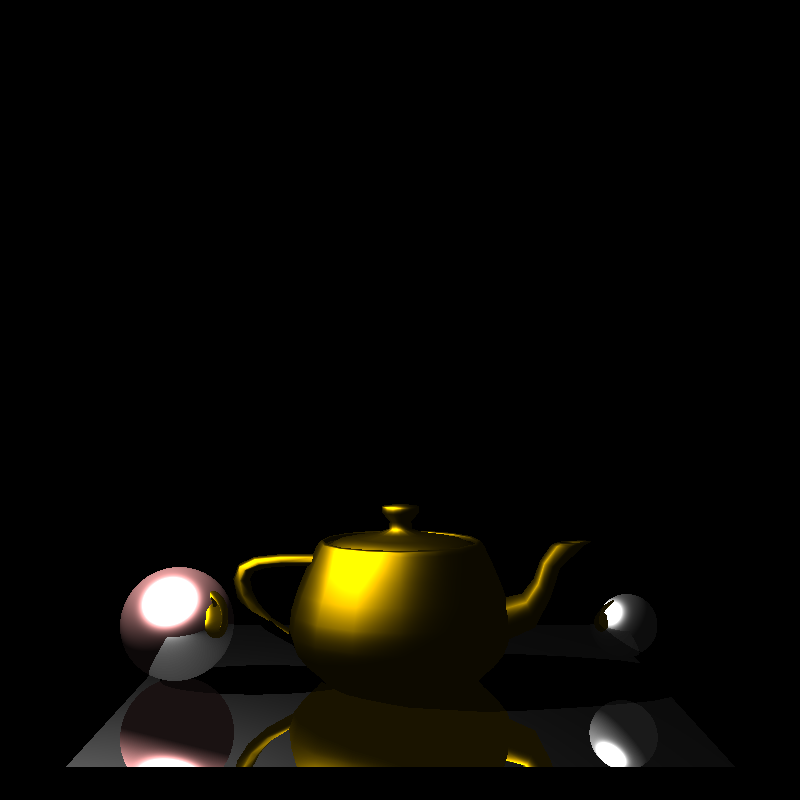
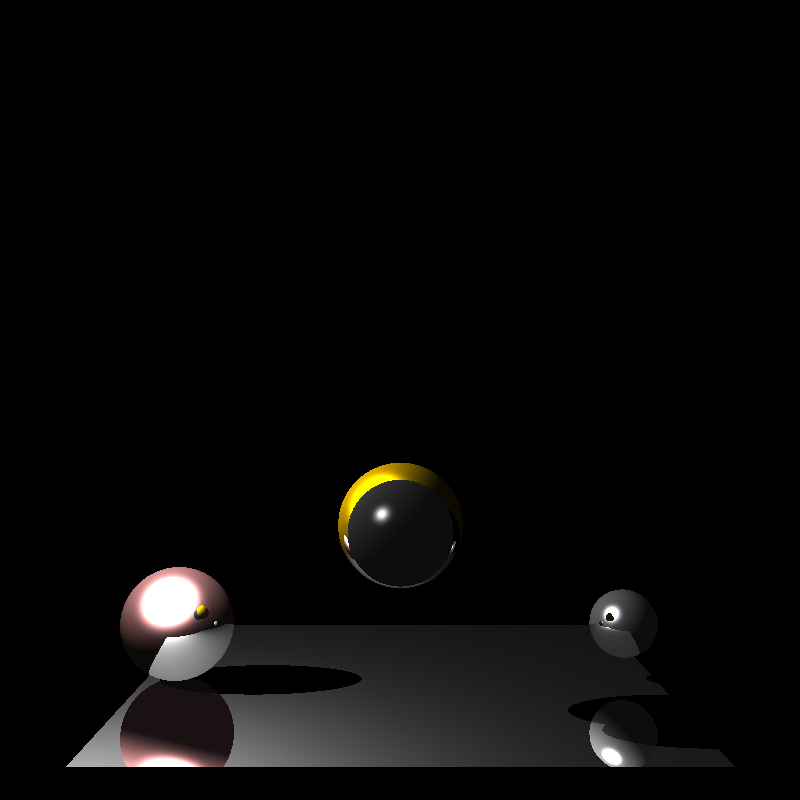
partial-refraction

Changed region(s): [[0.1562, 0.5625, 0.8125, 0.9688], [0.625, 0.6562, 0.7188, 0.7812], [0.0938, 0.875, 0.1562, 0.9688]]

diff --git a/src/edu/up/isgc/raytracer/Raytracer.java b/src/edu/up/isgc/raytracer/Raytracer.java
@@ -12,6 +12,7 @@ import javax.imageio.ImageIO;
 import edu.up.isgc.material.LambertMat;
 import edu.up.isgc.material.MaterialShader;
 import edu.up.isgc.material.ReflectiveMat;
+import edu.up.isgc.material.RefractiveMat;
 import edu.up.isgc.raytracer.lights.Light;
 import edu.up.isgc.raytracer.lights.PointLight;
 import edu.up.isgc.raytracer.objects.Camera;
@@ -27,41 +28,38 @@ public class Raytracer {
 
 	/**
 	 * Main Algorithm
+	 * 
 	 * @param args the command line arguments
 	 */
 	public static void main(String[] args) {
 		float version = 1.0f;
 		System.out.println("AEMN -> Raytracer v" + version);
 		System.out.println(new Date());
-		
-		
+
 		Scene sceneRoot = new Scene();
-		/* Scene One */
-		/*sceneRoot.setCamera(new Camera(new Vector3D(0, 0, -8), 160, 160, 800, 800, 2f, 50f));
-		sceneRoot.addLight(new PointLight(new Vector3D(2, 1.0, -2.0), new ReflectiveMat(Color.WHITE, 50, 0, 0, 0)));
-		sceneRoot.addLight(new PointLight(new Vector3D(-3.0, 1.0, 0.0), new ReflectiveMat(Color.WHITE, 50, 0, 0, 0)));
 
-		sceneRoot.addObject(new Sphere(new Vector3D(-2f, 0f, 1f), 0.3, new ReflectiveMat(Color.RED, 0, 35, .5, 0)));
-		sceneRoot.addObject(new Sphere(new Vector3D(0f, 0f, 1f), 0.3, new ReflectiveMat(Color.RED, 0, 15, 1, 0)));
-		sceneRoot.addObject(new Sphere(new Vector3D(2f, 0f, 1f), 0.3, new ReflectiveMat(Color.RED, 0, 5, 0.5, 0)));
-		sceneRoot.addObject(OBJReader.GetPolygon("Cube.obj", new Vector3D(2f, -2.2f, 2f),
-				new LambertMat(Color.ORANGE, 0, 5, 1.5f, 0)));
-
-		sceneRoot.addObject(OBJReader.GetPolygon("panel.obj", new Vector3D(0f, -2.5f, 1f),
-				new LambertMat(Color.GRAY, 0, 0, 1.0, 0)));*/
-		
-		/*Scene Two*/
+		/**************** Scene Two ****************/
+		// Scene Configuration
 		sceneRoot.setCamera(new Camera(new Vector3D(0, 0, -8), 160, 160, 800, 800, 0f, 50f));
-		
 		sceneRoot.addLight(new PointLight(new Vector3D(-3, 2.0, 0), new LambertMat(Color.WHITE, 500, 0, 0, 0)));
-		
-		sceneRoot.addObject(OBJReader.GetPolygon("smallTeapot.obj", new Vector3D(0, -2.5, 1.5),
-				new LambertMat(Color.ORANGE, 0, 5, 0.1f, 0)));
+		// Scene OBJs
+		/*
+		 * sceneRoot.addObject(OBJReader.GetPolygon("smallTeapot.obj", new Vector3D(0,
+		 * -2.5, 1.5), new LambertMat(Color.ORANGE, 0, 5, 0.1f, 0)));
+		 */
 		sceneRoot.addObject(OBJReader.GetPolygon("panel.obj", new Vector3D(0, -2.5, 1.5),
-				new ReflectiveMat(Color.GRAY, 0, 5, 0.1f, 0)));
-		
-		sceneRoot.addObject(new Sphere(new Vector3D(-2.0, -2.0, 1.5), 0.5, new ReflectiveMat(Color.PINK, 0, 15, 0.5f, 0)));
-		sceneRoot.addObject(new Sphere(new Vector3D(2.0, -2.0, 1.5), 0.3, new ReflectiveMat(Color.WHITE, 0, 15, 0.5f, 0)));
+				new ReflectiveMat(Color.WHITE, 0, 5, 0.1f, 0)));
+		// Scene Objects
+		sceneRoot.addObject(
+				new Sphere(new Vector3D(-2.0, -2.0, 1.5), 0.5, new ReflectiveMat(Color.PINK, 0, 15, 0.5f, 0)));
+		sceneRoot.addObject(
+				new Sphere(new Vector3D(2.0, -2.0, 1.5), 0.3, new ReflectiveMat(Color.WHITE, 0, 50, 0.5f, 0)));
+
+		// Testing DELETE
+		sceneRoot.addObject(
+				new Sphere(new Vector3D(0.0, -1, 0), 0.4, new RefractiveMat(Color.WHITE, 0, 100, 0.1f, 1.5)));
+		sceneRoot.addObject(
+				new Sphere(new Vector3D(0.0, -1.0, 0.5), 0.5, new ReflectiveMat(Color.ORANGE, 0, 15, 0.5f, 0)));
 
 		BufferedImage image = raytrace(sceneRoot);
 		File outputImage = new File("image.png");
@@ -73,9 +71,10 @@ public class Raytracer {
 
 		System.out.println(new Date());
 	}
-	
+
 	/***
 	 * Intersection tracing method.
+	 * 
 	 * @param ray
 	 * @param objects
 	 * @param caster
@@ -104,10 +103,10 @@ public class Raytracer {
 
 		return closestIntersection;
 	}
-	
-	
+
 	/***
 	 * Scene raytracing method.
+	 * 
 	 * @param scene
 	 * @return
 	 */
@@ -134,35 +133,53 @@ public class Raytracer {
 				Color pixelColor = Color.BLACK; // Background color
 				if (closestIntersection != null) {
 					pixelColor = Color.BLACK;
-					
+
 					for (Light light : lights) {
-						
+
 						/***
 						 * Blin-Phong Shading / Interpolation
 						 */
 						float specular = 1f;
 						float smooth = (float) closestIntersection.getObject().getShader().getDiffuse();
 						float ambient = .05f;
-						
-						float[] newRGB = MaterialShader.calculateNewColors(light, closestIntersection, mainCamera, ambient, specular, smooth);
-						
+						float[] newRGB = MaterialShader.calculateNewColors(light, closestIntersection, mainCamera,
+								ambient, specular, smooth);
+
 						/***
 						 * Reflection and Refraction
 						 */
-						if(closestIntersection.getObject().getShader() instanceof ReflectiveMat) {
-							Intersection reflectionIntersection = reflection(closestIntersection, light, objects, mainCamera);
-							
-							if(reflectionIntersection != null) {
-								
-								newRGB = MaterialShader.calculateNewColors(light, reflectionIntersection, mainCamera, ambient, specular, smooth);
-								
-								//Pixel finished
-								Color newCol = new Color(clamp(newRGB[0], 0, 1), clamp(newRGB[1], 0, 1), clamp(newRGB[2], 0, 1));
+						if (closestIntersection.getObject().getShader() instanceof ReflectiveMat) {
+							Intersection reflectionIntersection = reflection(closestIntersection, light, objects,
+									mainCamera);
+
+							if (reflectionIntersection != null) {
+
+								newRGB = MaterialShader.calculateNewColors(light, reflectionIntersection, mainCamera,
+										ambient, specular, smooth);
+
+								Color newCol = new Color(clamp(newRGB[0], 0, 1), clamp(newRGB[1], 0, 1),
+										clamp(newRGB[2], 0, 1));
 								pixelColor = addColor(pixelColor, newCol);
 
 							}
+
+						} else if (closestIntersection.getObject().getShader() instanceof RefractiveMat) {
+							Intersection refractedIntersection = refraction(closestIntersection, light, objects,
+									mainCamera);
+
+							if (refractedIntersection != null) {
+								Intersection secondRefraction = refraction(refractedIntersection, light, objects,
+										mainCamera);
+
+								newRGB = MaterialShader.calculateNewColors(light, secondRefraction, mainCamera, ambient,
+										specular, smooth);
+
+								Color newCol = new Color(clamp(newRGB[0], 0, 1), clamp(newRGB[1], 0, 1),
+										clamp(newRGB[2], 0, 1));
+								pixelColor = addColor(pixelColor, newCol);
+							}
 						}
-						
+
 						/***
 						 * Shadow algorithm
 						 */
@@ -170,12 +187,11 @@ public class Raytracer {
 						Intersection shadowIntersection = raycast(shadowRay, objects, closestIntersection.getObject(),
 								null);
 
-											
 						Color diffuse = Color.black;
 						if (shadowIntersection == null) {
 							diffuse = new Color(clamp(newRGB[0], 0, 1), clamp(newRGB[1], 0, 1), clamp(newRGB[2], 0, 1));
 						}
-						
+
 						pixelColor = addColor(pixelColor, diffuse);
 					}
 
@@ -186,24 +202,67 @@ public class Raytracer {
 
 		return image;
 	}
-	
-	public static Intersection reflection(Intersection closestIntersection, Light light, ArrayList<Object3D> objects, Camera mainCamera) {
+
+	public static Intersection reflection(Intersection closestIntersection, Light light, ArrayList<Object3D> objects,
+			Camera mainCamera) {
 		Vector3D N = closestIntersection.getNormal();
 		Vector3D I = Vector3D.substract(closestIntersection.getPosition(), mainCamera.getPosition());
-		Vector3D R = Vector3D.add(I, Vector3D.scalarMultiplication(N, -2 * Vector3D.dotProduct(N, I) ) );
-		
-		//Recursiveness
+		Vector3D R = Vector3D.add(I, Vector3D.scalarMultiplication(N, -2 * Vector3D.dotProduct(N, I)));
+
+		// Recursiveness
 		Vector3D reflectedVector = R;
-		
+
 		Ray reflectionRay = new Ray(closestIntersection.getPosition(), reflectedVector);
-		Intersection reflectedIntersection = raycast(reflectionRay, objects, closestIntersection.getObject(),
-				null);
-		
+		Intersection reflectedIntersection = raycast(reflectionRay, objects, closestIntersection.getObject(), null);
+
 		return reflectedIntersection;
+	}
+
+	public static Intersection refraction(Intersection closestIntersection, Light light, ArrayList<Object3D> objects,
+			Camera mainCamera) {
+		Intersection finalIntersection = null;
+		double n = closestIntersection.getObject().getShader().getRefractionIndex();
+		Vector3D I = Vector3D.substract(closestIntersection.getPosition(), mainCamera.getPosition());
+		Vector3D N = closestIntersection.getNormal();
+		double IdotN = Vector3D.dotProduct(I, N);
+
+		Vector3D T = null;
+
+		if (IdotN > 0) {
+			double angle = Math.acos(Math.toRadians(IdotN / (Vector3D.magnitude(I) * Vector3D.magnitude(N))));
+
+			double c1 = Vector3D.dotProduct(N, I);
+			double c2 = Math.sqrt(1 - Math.pow(n, 2) * (1 - Math.pow(Math.cos(angle), 2)));
+			T = Vector3D.add(Vector3D.scalarMultiplication(I, n), Vector3D.scalarMultiplication(N, (n * c1 - c2)));
+		} else {
+			IdotN = -IdotN;
+			double angle = Math.acos(Math.toRadians(IdotN / (Vector3D.magnitude(I) * Vector3D.magnitude(N))));
+
+			double c1 = Vector3D.dotProduct(N, I);
+			double c2 = Math.sqrt(1 - Math.pow(n, 2) * (1 - Math.pow(Math.cos(angle), 2)));
+			T = Vector3D.substract(
+					Vector3D.scalarMultiplication(Vector3D.add(I, Vector3D.scalarMultiplication(N, c1)), n),
+					Vector3D.scalarMultiplication(N, c2));
+		}
+
+		Vector3D refractedVector = T;
+
+		Ray refractedRay = new Ray(closestIntersection.getPosition(), refractedVector);
+		Intersection refractedIntersection = raycast(refractedRay, objects, closestIntersection.getObject(), null);
+		finalIntersection = refractedIntersection;
+		if (refractedIntersection != null) {
+			if (refractedIntersection.getObject() == closestIntersection.getObject()) {
+				Intersection thirdIntersection = refraction(refractedIntersection, light, objects, mainCamera);
+				finalIntersection = thirdIntersection;
+			}
+		}
+
+		return finalIntersection;
 	}
 
 	/***
 	 * Value Clamp Method
+	 * 
 	 * @param value
 	 * @param min
 	 * @param max
@@ -220,9 +279,10 @@ public class Raytracer {
 
 		return value;
 	}
-	
+
 	/***
 	 * Color per Pixel Clamping Method
+	 * 
 	 * @param original
 	 * @param otherColor
 	 * @return

diff --git a/src/edu/up/isgc/material/RefractiveMat.java b/src/edu/up/isgc/material/RefractiveMat.java
@@ -1,0 +1,34 @@
+/**
+ * 
+ */
+package edu.up.isgc.material;
+
+import java.awt.Color;
+
+/**
+ * @author User
+ *
+ */
+public class RefractiveMat extends MaterialShader {
+
+	/**
+	 * @param color
+	 * @param intensity
+	 * @param shininess
+	 * @param diffuse
+	 * @param refraction
+	 */
+	
+	/**
+	 * Refraction index values:
+	 * Water: 1.3
+	 * Glass: 1.5
+	 * Diamond: 1.8
+	 */
+	
+	public RefractiveMat(Color color, double intensity, double shininess, double diffuse, double refraction) {
+		super(color, intensity, shininess, diffuse, refraction);
+		// TODO Auto-generated constructor stub
+	}
+
+}
